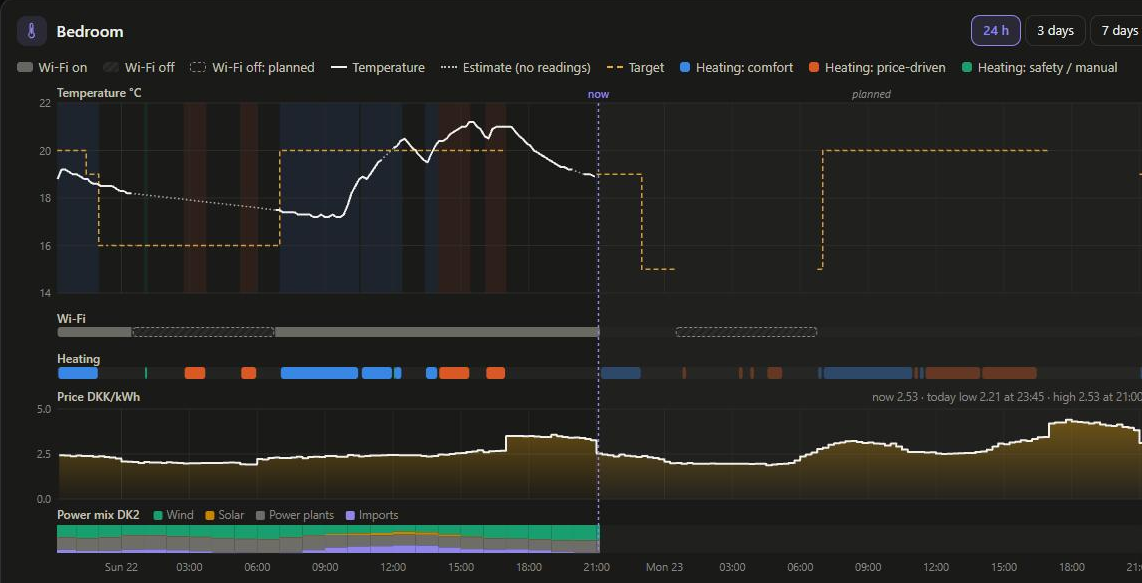
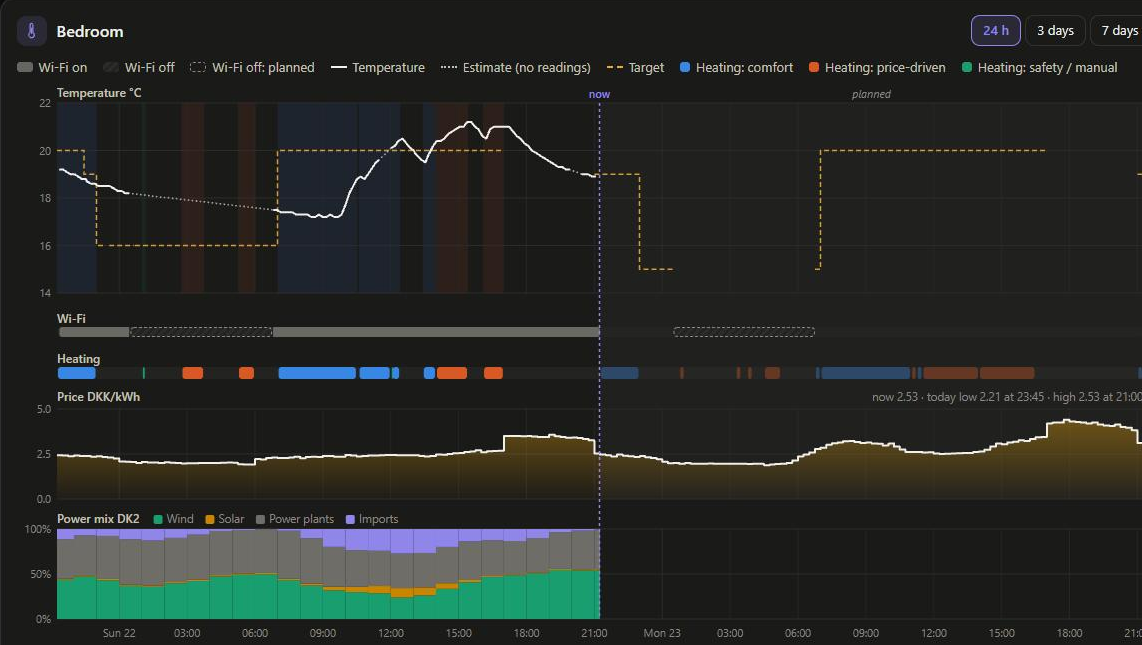
Room chart: the power mix is as tall as the price, with a % axis and the time grid; wind stacks from the bottom

diff --git a/web/app.js b/web/app.js
@@ -782,7 +782,7 @@ function renderDetail() {
   const priceTop = stripTop + stripH + (showStrip ? 30 : 0), priceH = 90;
   // Power mix per hour of the price area (wind, solar, power plants, imports), under the price.
   const mix = (state.mix?.hours || []).filter((r) => r[0] + 3600 > t0 && r[0] < t1);
-  const mixTop = priceTop + priceH + (mix.length ? 26 : 0), mixH = mix.length ? 28 : 0;
+  const mixTop = priceTop + priceH + (mix.length ? 30 : 0), mixH = mix.length ? priceH : 0;  // as tall as the price, for detail
   const H = mixTop + mixH + 24;
   const x = (t) => m.l + ((t - t0) / (t1 - t0)) * (W - m.l - m.r);
   const svg = el("svg", { viewBox: `0 0 ${W} ${H}`, height: H, role: "img", "aria-label": `${room.name}: temperature, heating and price` }, host);
@@ -910,17 +910,24 @@ function renderDetail() {
       const t = el("text", { class: "panel-note", x: lx + 13, y: mixTop - 6 }, svg, name);
       lx += 13 + t.getComputedTextLength() + 12;
     }
-    el("rect", { x: m.l, y: mixTop, width: W - m.l - m.r, height: mixH, fill: "var(--grid)", rx: 3, opacity: 0.35 }, svg);
+    // Like the price panel: a % axis and the time grid. Columns stack from the bottom (wind first),
+    // so the share of wind - and wind + solar - reads straight off the axis.
+    const yM = (share) => mixTop + (1 - share) * mixH;
+    for (const v of [0, 0.5, 1]) {
+      el("line", { class: "grid", x1: m.l, x2: W - m.r, y1: yM(v), y2: yM(v) }, svg);
+      el("text", { x: m.l - 6, y: yM(v) + 4, "text-anchor": "end" }, svg, `${v * 100}%`);
+    }
+    drawTimeAxis(svg, x, ticks, mixTop, mixTop + mixH, null);
     for (const r of mix) {
       const parts = mixParts(r);
       const total = parts.reduce((a, p) => a + p.mw, 0);
       if (total <= 0) continue;
       const x0 = x(Math.max(r[0], t0)), x1 = x(Math.min(r[0] + 3600, t1, h.to));  // the hour so far
-      let yy = mixTop;
+      let share = 0;
       for (const p of parts) {
-        const hgt = (p.mw / total) * mixH;
-        if (hgt > 0) el("rect", { x: x0, y: yy, width: Math.max(1, x1 - x0), height: hgt, style: `fill: var(--mix-${p.key})` }, svg);
-        yy += hgt;
+        const part = p.mw / total;
+        if (part > 0) el("rect", { x: x0, y: yM(share + part), width: Math.max(1, x1 - x0), height: part * mixH, style: `fill: var(--mix-${p.key})` }, svg);
+        share += part;
       }
     }
   }
